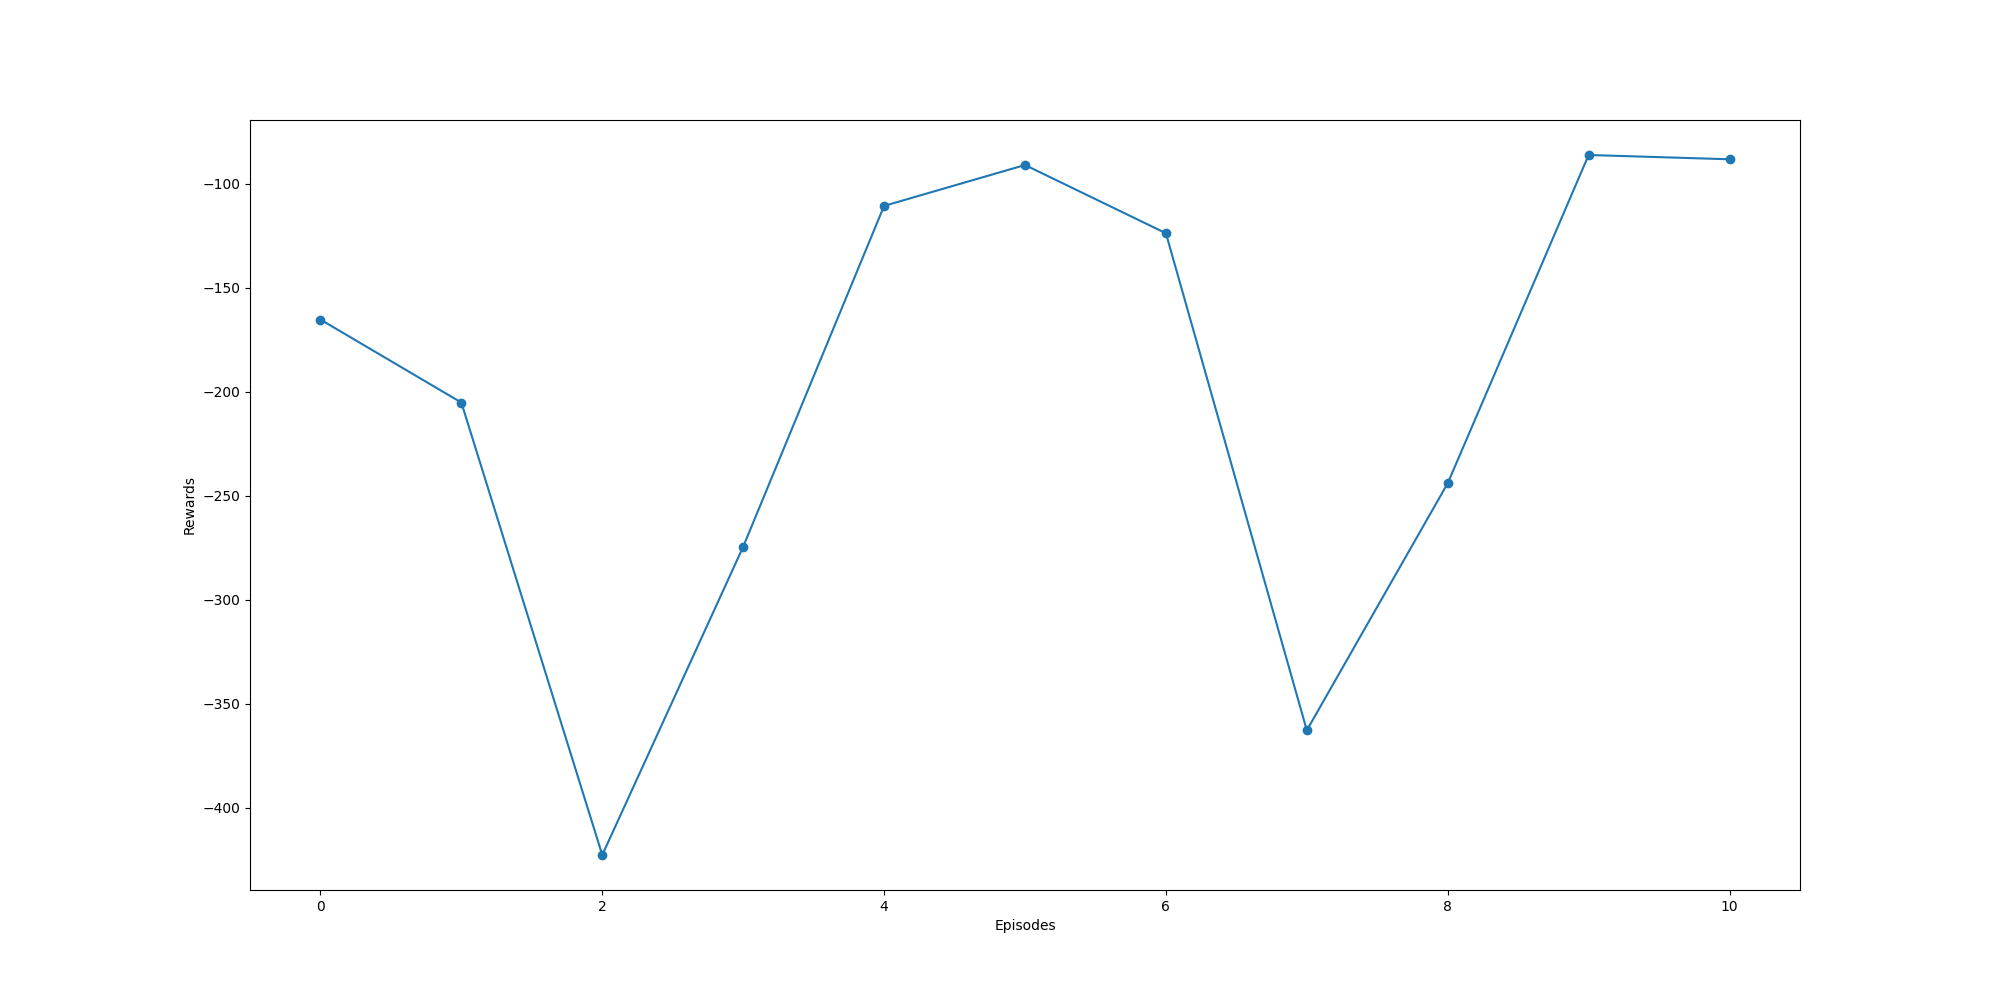
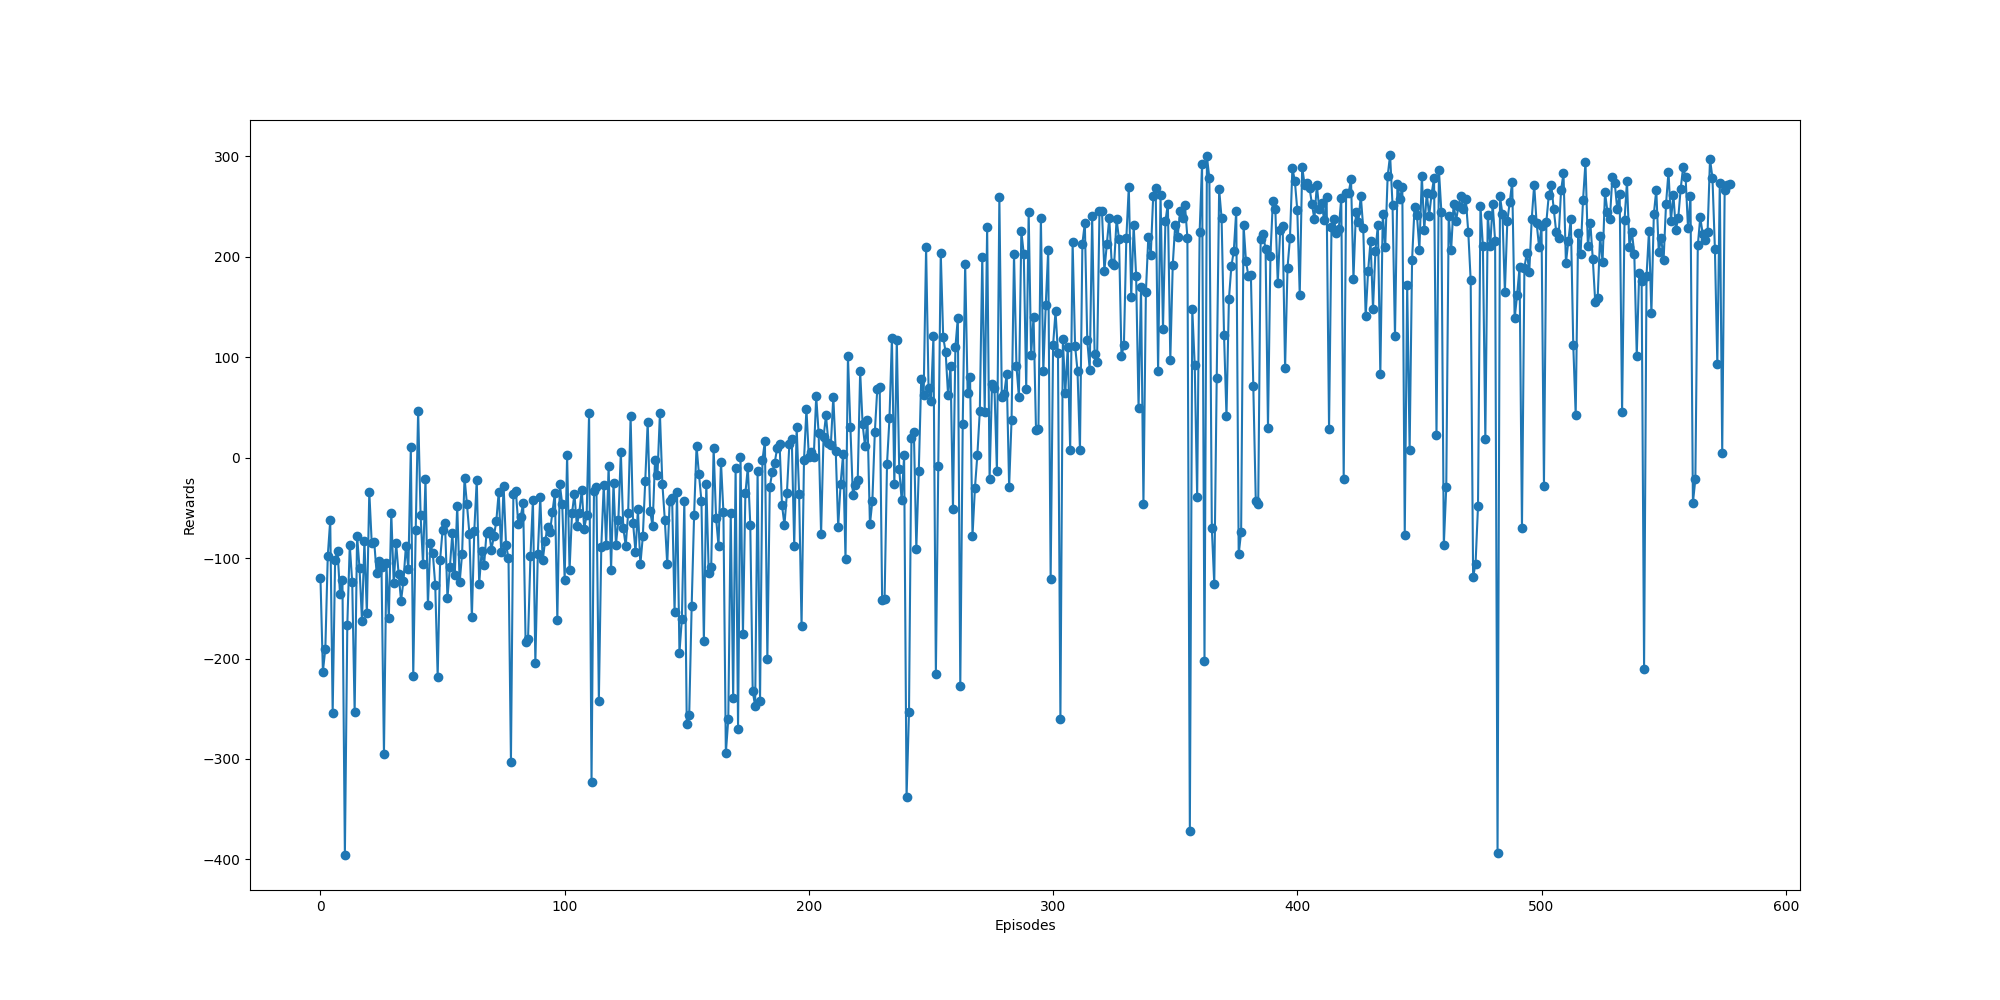
duelingDQN

diff --git a/lunarlander2.py b/lunarlander2.py
@@ -5,7 +5,7 @@ import torch
 import matplotlib.pyplot as plt
 
 env = gym.make('LunarLander-v2')
-episodes = 50
+episodes = 1000
 epsilon = 1.0
 gamma = 0.99
 buffer_size = 500000
@@ -22,7 +22,7 @@ for episode in range(episodes+1):
     state = env.reset().astype(np.float32)
     reward_ep, done = 0, False
     while not done:
-        #env.unwrapped.render() # Comment this if you do not want 
+        #env.unwrapped.render() # Comment this if you do not want
         state_tensor = torch.from_numpy(state)
         action = network.get_action(state_tensor)
         next_state, reward, done, info = env.step(action)
@@ -39,7 +39,7 @@ for episode in range(episodes+1):
             loss = network.train_batch(states, actions, rewards, next_states, dones)
 
     if episode < 900:
-        network.epsilon*=network.epsilon_decay
+        network.epsilon *= network.epsilon_decay
     reward_list_ep.append(reward_ep)
 
     if len(reward_last_100_eps) == 100:
